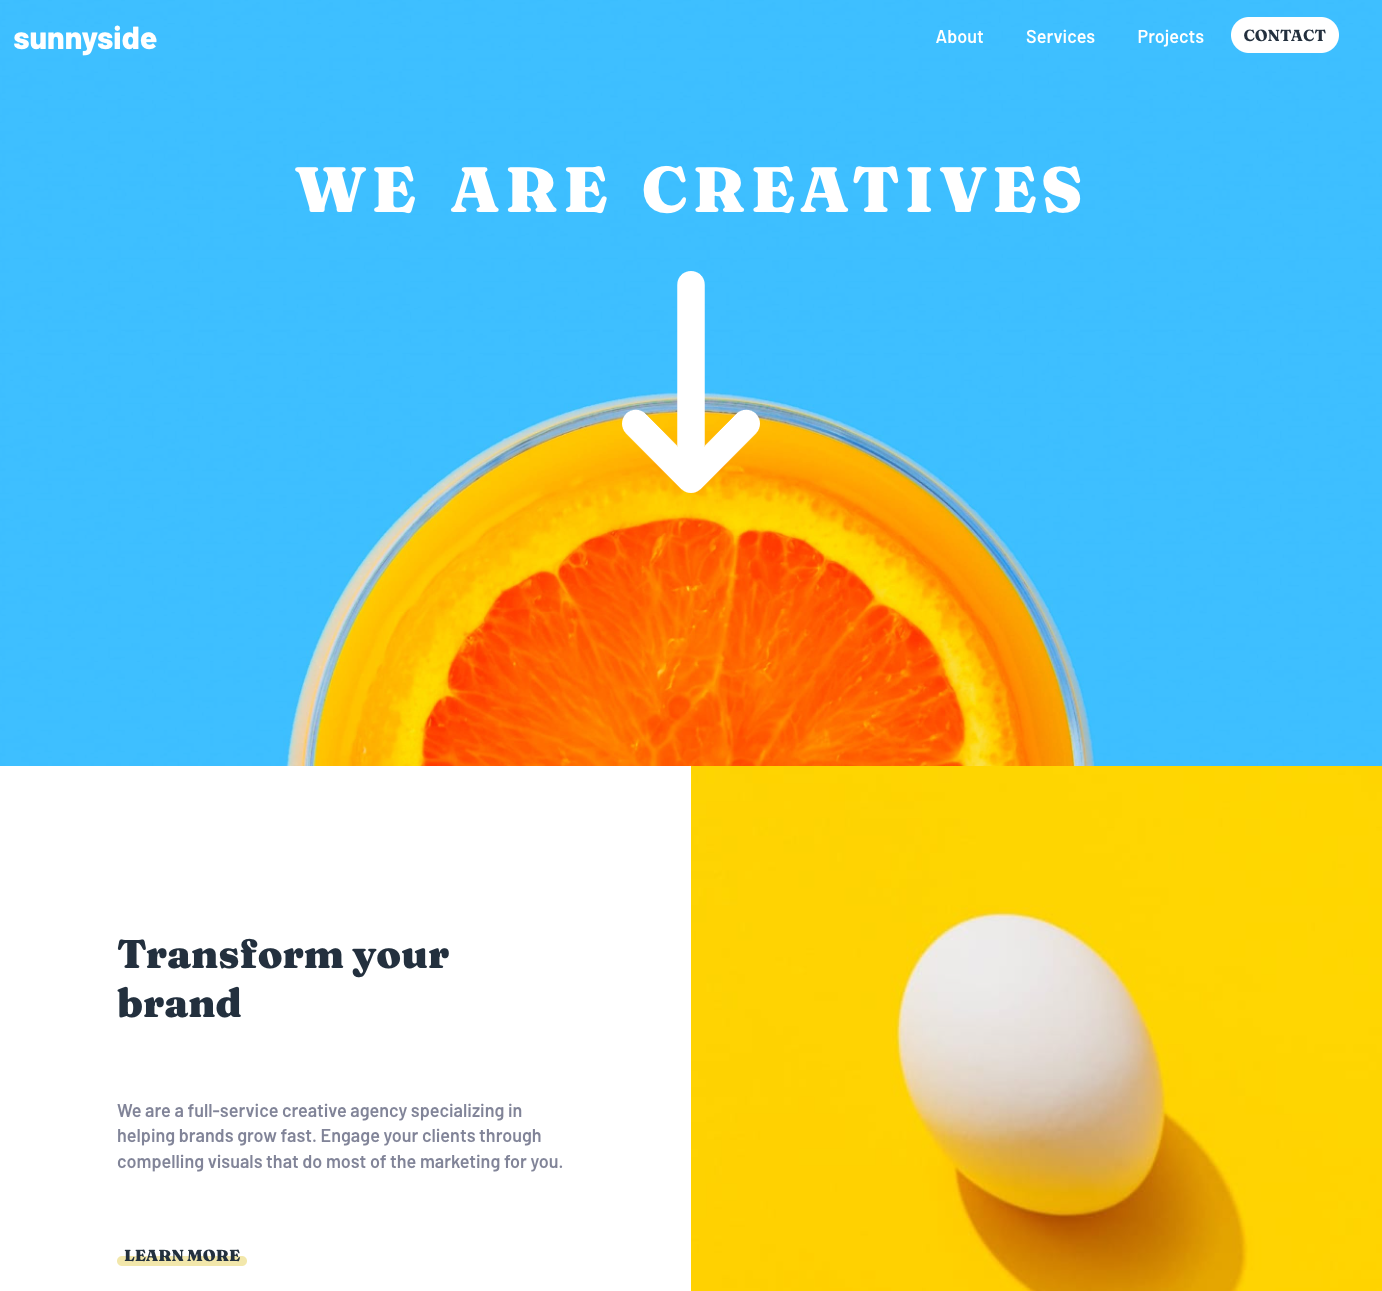
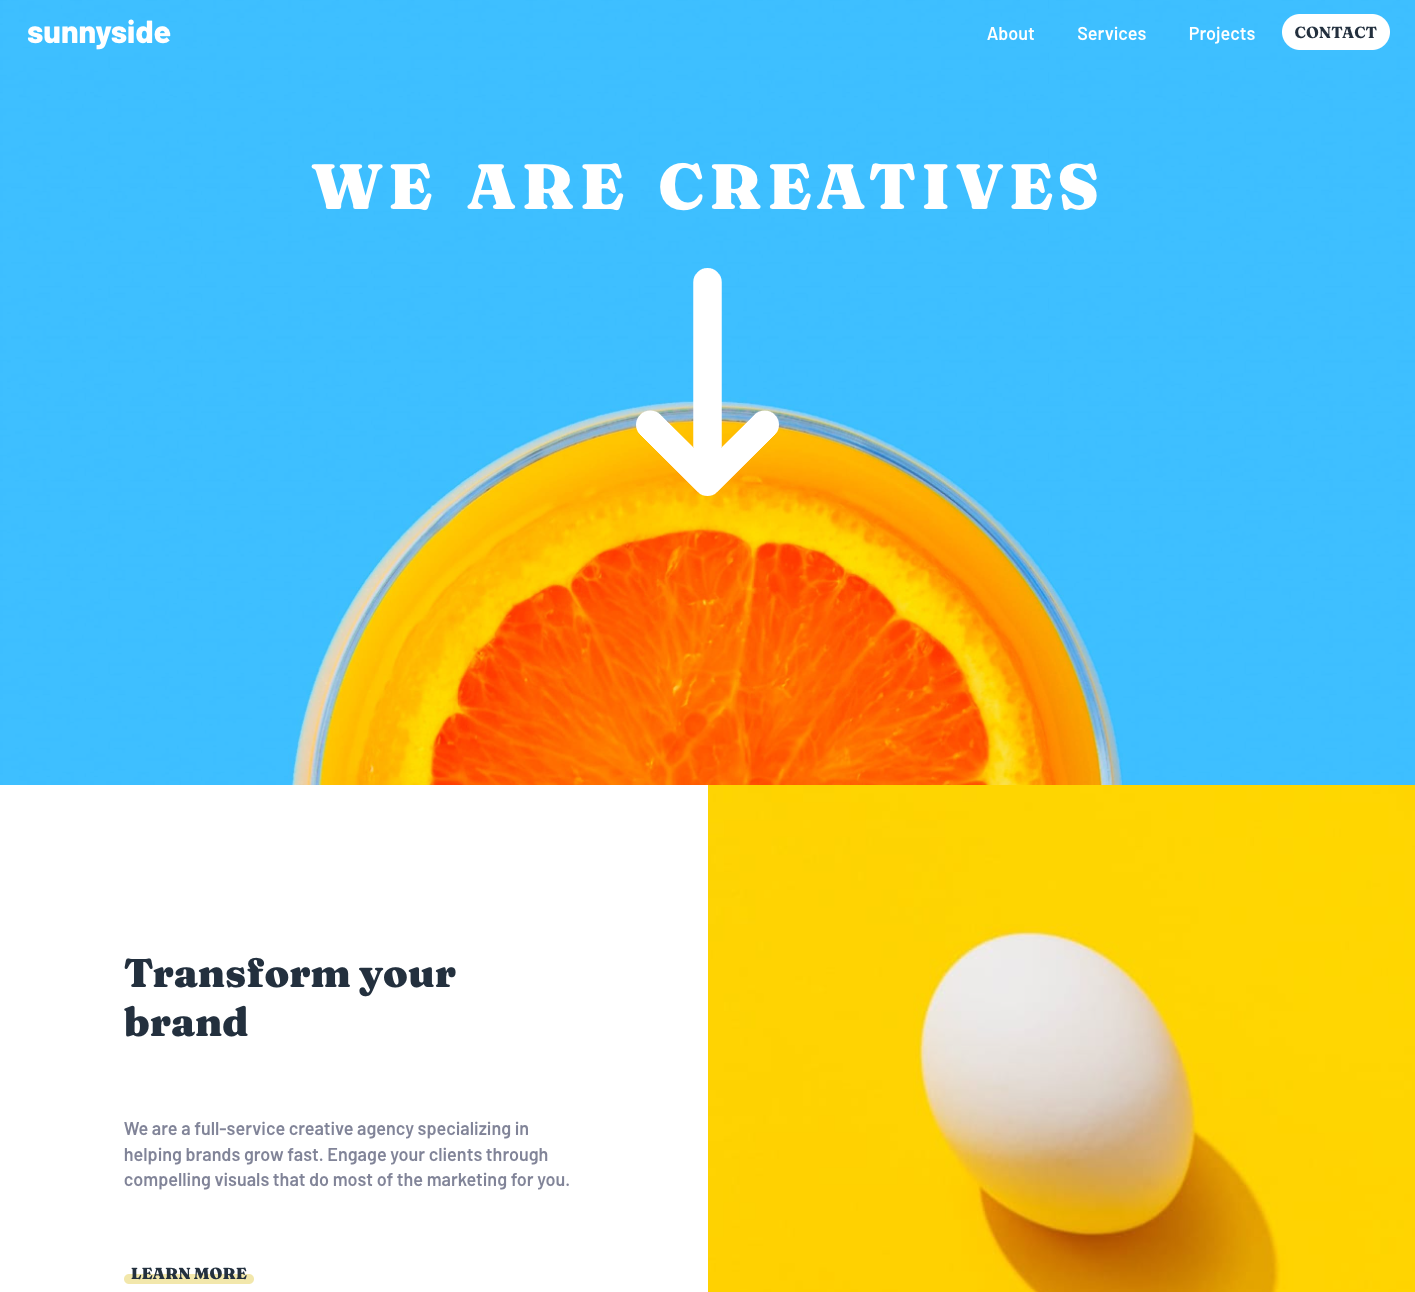
Updating Projects section

diff --git a/src/Components/Projects.jsx b/src/Components/Projects.jsx
@@ -9,23 +9,22 @@ const Projects = () => {
 			</div>
 			<div className="projects-container">
 				<Card
-					title="URL Shortener App"
-					description="This project is a URL shortening app that takes in the user's external URL link and shortens the link. The tech stack used to complete this project were JavaScript, CSS, & React.
-					"
+					title="Shortly"
+					description="Shortly is a URL shortening app that takes in the user's external URL link and shortens the link. It allows the user to delete old URL links and keep the ones they would like. "
 					img={require("./URL.jpg")}
 					gitLink="https://github.com/Vivianie-P/URL-Project"
 				/>
 
 				<Card
 					title="Sunnyside Landing Page"
-					description="This is a colorful landing page with and interactive elements."
+					description="This is a colorful landing page with and interactive elements. This landing page informs the user of this full-service creative agency that "
 					img={require("./sunnyside-lp.jpg")}
 					gitLink="https://github.com/Vivianie-P/sunnyside-lp"
 				/>
 
 				<Card
 					title="To Do App"
-					description="This a To Do app that helps the user create, add, delete, and cross out to do's."
+					description="This a To Do app that helps the user create, add, delete, and cross out to do's. "
 					img={require("./to-do.jpg")}
 					gitLink="https://github.com/Vivianie-P/to-do-app"
 				/>

diff --git a/src/Components/Header.css b/src/Components/Header.css
@@ -8,13 +8,12 @@
 	width: calc(100% - 12px);
 	display: flex;
 	justify-content: space-between;
-	padding: 1rem 2.5rem;
+	padding: 1rem 3rem;
 	position: fixed;
 	height: 60px;
 	top: 6px;
 	box-shadow: rgba(40, 38, 38, 0.541) 0px 1px 10px 0px;
 	z-index: 20;
-	padding: 0px;
 }
 
 .mobile-menu-inactive {

diff --git a/src/Components/AboutMe.css b/src/Components/AboutMe.css
@@ -8,7 +8,7 @@
 	font-family: "Varela Round", sans-serif;
 	font-weight: 400;
 	margin-top: 9rem;
-	padding: 0 2rem;
+	padding: 0 3rem;
 }
 
 .aboutme-title {

diff --git a/src/Components/Projects.css b/src/Components/Projects.css
@@ -48,6 +48,10 @@
 	object-fit: contain;
 }
 
+/* .project-details {
+	grid-area: 1 / 1 / 2 / 2;
+} */
+
 .card__title {
 	font-size: 2.5rem;
 	padding: 1rem;
